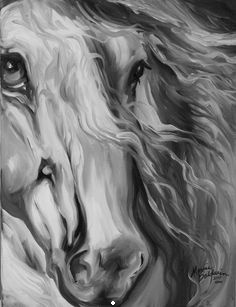
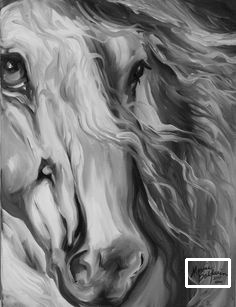
remove logs and add comments

Changed region(s): [[0.7712, 0.8208, 0.9788, 0.9381], [0.4746, 0.9674, 0.5042, 0.9967]]

diff --git a/index.py b/index.py
@@ -7,11 +7,6 @@ import json
 import math
 
 import cv2
-import numpy as np
-import matplotlib.pyplot as plt
-
-from scipy.stats import itemfreq
-from skimage.feature import hog , local_binary_pattern
 
 RESULTS = []
 
@@ -50,48 +45,55 @@ def load_dataset():
 	return dataset,writePath
 
 # http://docs.opencv.org/3.0-beta/doc/py_tutorials/py_imgproc/py_morphological_ops/py_morphological_ops.html
+# In this method we apply many morphological operations and
+# filters to reduce noising of the image
+# because our dataset its very sparse and mixed
 def find_contours(image):
-	#erosion
+	# For the utilization of Otsu threshold its needed to apply a gaussian blur
+	# we use a big kernel to instensify the noising remove
+	blur = cv2.GaussianBlur(image,(11,11),0)
 	kernel = cv2.getStructuringElement(cv2.MORPH_CROSS, (5, 5))
-	grad = cv2.morphologyEx(image, cv2.MORPH_GRADIENT, kernel)
-	#binarize
+	grad = cv2.morphologyEx(blur, cv2.MORPH_GRADIENT, kernel)
+
+	# Applying Otsu binarization its very useful because
+	# he uses the advantage of a gaussian blured image
+	# and calculates an optimal threshold based on the variance and means
+	# wich is useful since we have many different images
+	# http://docs.opencv.org/trunk/d7/d4d/tutorial_py_thresholding.html
 	_, thresh = cv2.threshold(grad, 0, 255, cv2.THRESH_BINARY+cv2.THRESH_OTSU)
 	#dilation
+	# we dilate to remove some noise resulted of the transformation
+	dilated = cv2.dilate(thresh,kernel, iterations = 2) # dilate
+
 	kernel = cv2.getStructuringElement(cv2.MORPH_CROSS, (5, 5))
-	# dilated = cv2.dilate(thresh,kernel, iterations = 3) # dilate
 	connected = cv2.morphologyEx(thresh, cv2.MORPH_CLOSE, kernel)
 	_, contours, hierarchy = cv2.findContours(connected,cv2.RETR_CCOMP,cv2.CHAIN_APPROX_NONE)
 	cv2.imshow('contours', connected)
-	cv2.imwrite('results/' + 'results_'+ 'teste' +'.jpg', connected)
 	cv2.waitKey(0)
 	return contours
 
 
+# apply the rectangle draw on the interesting regions
 def drawRectangle(original, contours):
 	for contour in contours:
 		# get rectangle bounding contour
 		[x, y, w, h] = cv2.boundingRect(contour)
 
-		#be smart and draw only in common signature regions
+		#being smart and draw only in commonly signature regions
 		valid = original.shape[1] * 0.50
 		# bootom of the figure
 		# horizontal text
 		if (w > h and y > valid and w > 20 and h > 20 ):
-		# draw rectangle around contour on original image
+		# draw rectangle around the contour on the original image
 			marked = cv2.rectangle(original, (x, y), (x + w, y + h), (255, 0, 255), 2)
 			return marked
-
-#Resize the image to do analysis easier
-def applyROI(image):
-	image = cv2.resize(image, (256, 256))
-	return image
 
 def process_images(dataset):
 	print("Start Processing")
 	for (i, imagePath) in enumerate(dataset):
-
+		# get the current gray image
 		image = cv2.imread(imagePath, 0)
-		# image = applyROI(image)
+		# Find all contours in the gray image
 		contours = find_contours(image)
 		# Get the image with rectangles and save
 		img_processed = drawRectangle(image, contours)
@@ -107,7 +109,6 @@ def process_images(dataset):
 def main(argv):
 	DATASET,WRITE_PATH = load_dataset()
 	process_images(DATASET)
-	# save_results(WRITE_PATH)
 
 if __name__ == "__main__":
     main(sys.argv)
